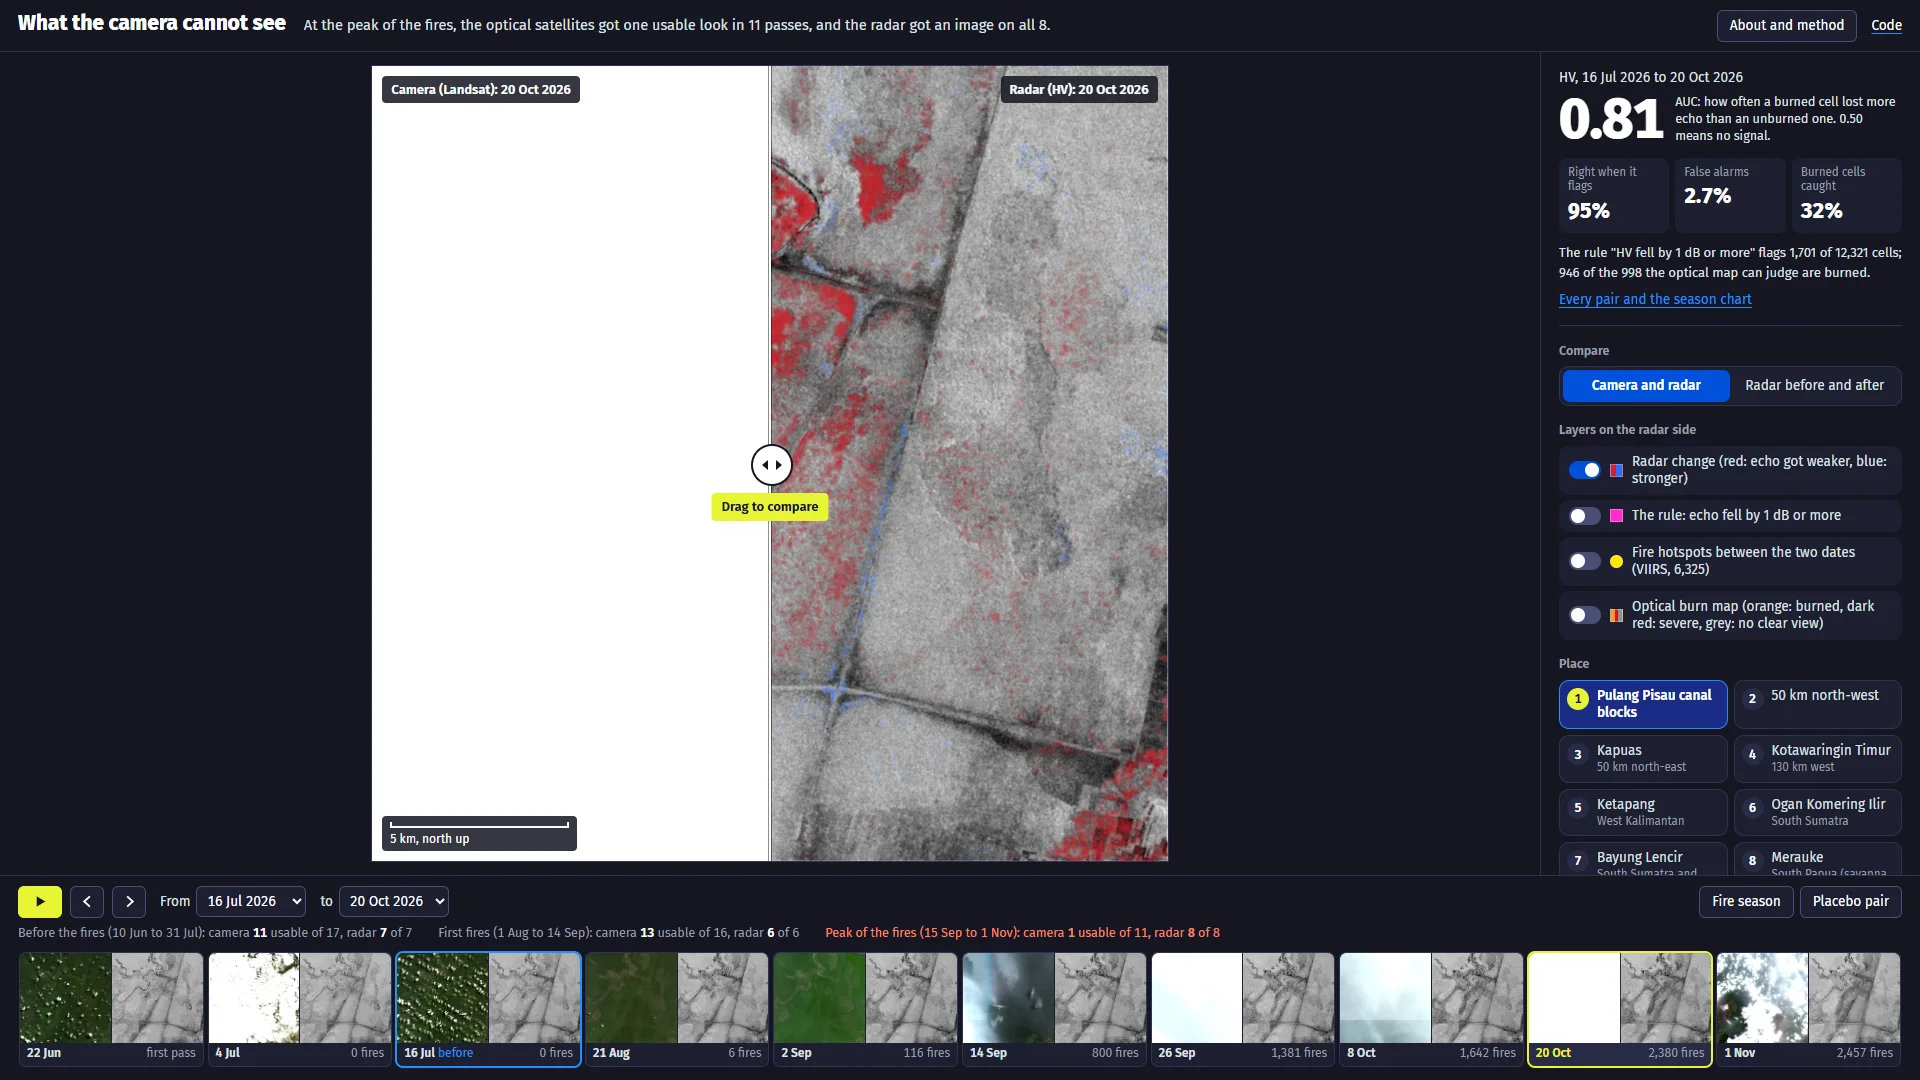
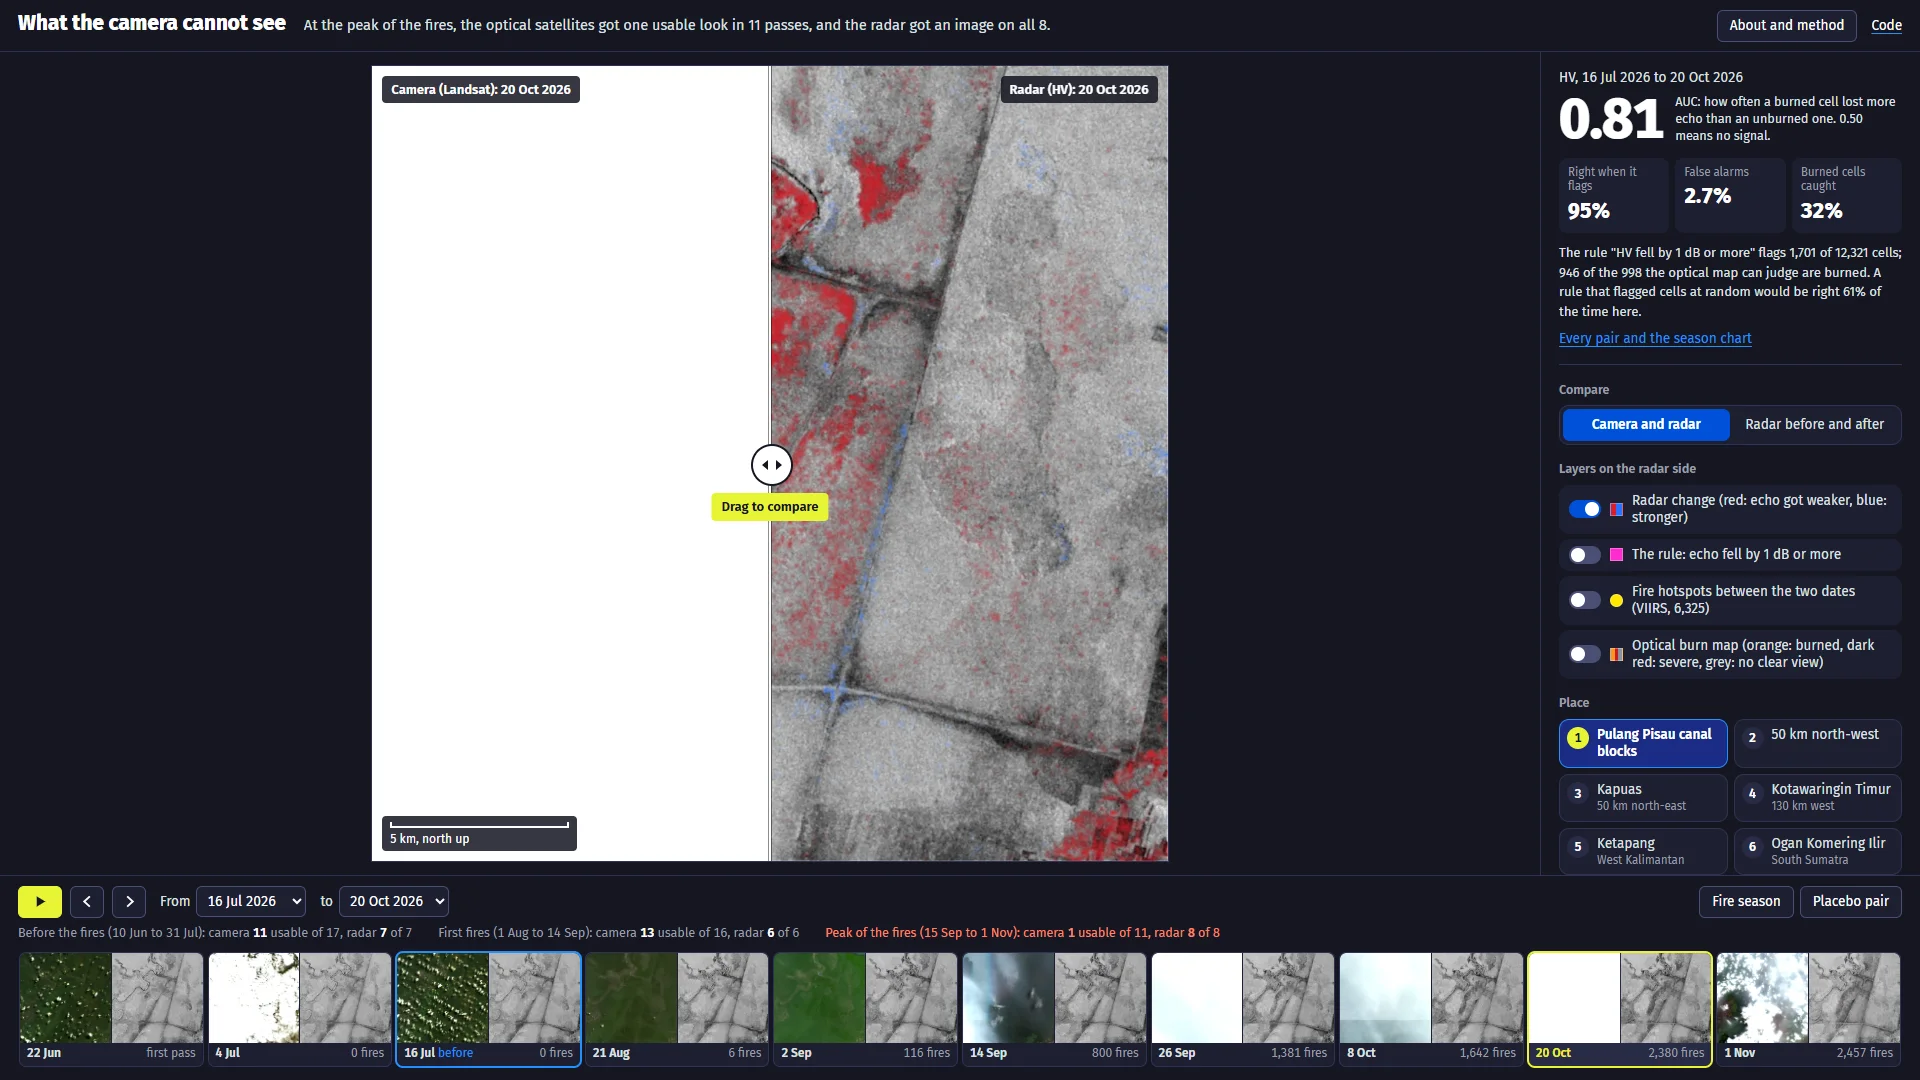
Deck: chance baseline and AUC interval from the scoring review, app screenshot retaken after the overlay draws

Changed region(s): [[0.8125, 0.2444, 1.0, 0.825]]

diff --git a/docs/deck/index.html b/docs/deck/index.html
@@ -94,10 +94,10 @@
     <figcaption>Window 1, HV channel. Each dot is one date pair, plotted at its later date. Grey: placebo pairs, both before the fires. Red: fire-season pairs, from mid July. AUC is the chance that a burned cell lost more radar echo than an unburned one; 0.50 means no signal. Burned and unburned come from the optical burn map (Landsat and Sentinel-2 dNBR).</figcaption>
   </figure>
   <div class="nums">
-    <div><span class="n">95%</span><p>right when the rule flags a cell (946 of 998), 16 Jul to 20 Oct</p></div>
+    <div><span class="n">95%</span><p>right when the rule flags a cell (946 of 998), 16 Jul to 20 Oct. A rule flagging cells at random would be right 61% of the time here</p></div>
     <div><span class="n">2.7%</span><p>of unburned cells flagged by mistake</p></div>
     <div><span class="n">32%</span><p>of burned cells caught. The rule finds the severe core of the burn, not every edge</p></div>
-    <p class="aside">The second orbit looks from the other side: 0.73 in the fire season, placebo pairs 0.46 to 0.50. The 1 dB rule was set before scoring and is not tuned.</p>
+    <p class="aside">0.81 has a 95% interval of 0.75 to 0.87 (2 km blocks resampled). The second orbit looks from the other side: 0.73 in the fire season, placebo pairs 0.46 to 0.50. The 1 dB rule was set before scoring and is not tuned.</p>
   </div>
 </section>
 

diff --git a/tests/deck_overlays.py b/tests/deck_overlays.py
@@ -21,11 +21,11 @@ with sync_playwright() as p:
     b = p.chromium.launch(channel="msedge", headless=True)
     pg = b.new_page(viewport={"width": 1920, "height": 1080})
     pg.goto("http://127.0.0.1:8765/", wait_until="networkidle")
-    pg.wait_for_timeout(4000)
+    pg.wait_for_timeout(8000)   # the arrival sweep and the overlay draw
+    pg.screenshot(path=str(out / "app_default.png"))   # first screen as a visitor sees it
     pg.click("#preset-fire"); pg.wait_for_timeout(1500); grab(pg, "ov_change_fire.png")
     pg.uncheck("#layer-change"); pg.check("#layer-rule"); pg.wait_for_timeout(1000); grab(pg, "ov_rule_fire.png")
     pg.uncheck("#layer-rule"); pg.check("#layer-opt"); pg.wait_for_timeout(1000); grab(pg, "ov_opt.png")
     pg.uncheck("#layer-opt"); pg.check("#layer-change"); pg.click("#preset-placebo"); pg.wait_for_timeout(1500)
     grab(pg, "ov_change_placebo.png")
-    pg.screenshot(path=str(out / "app_default.png"))
     b.close()
